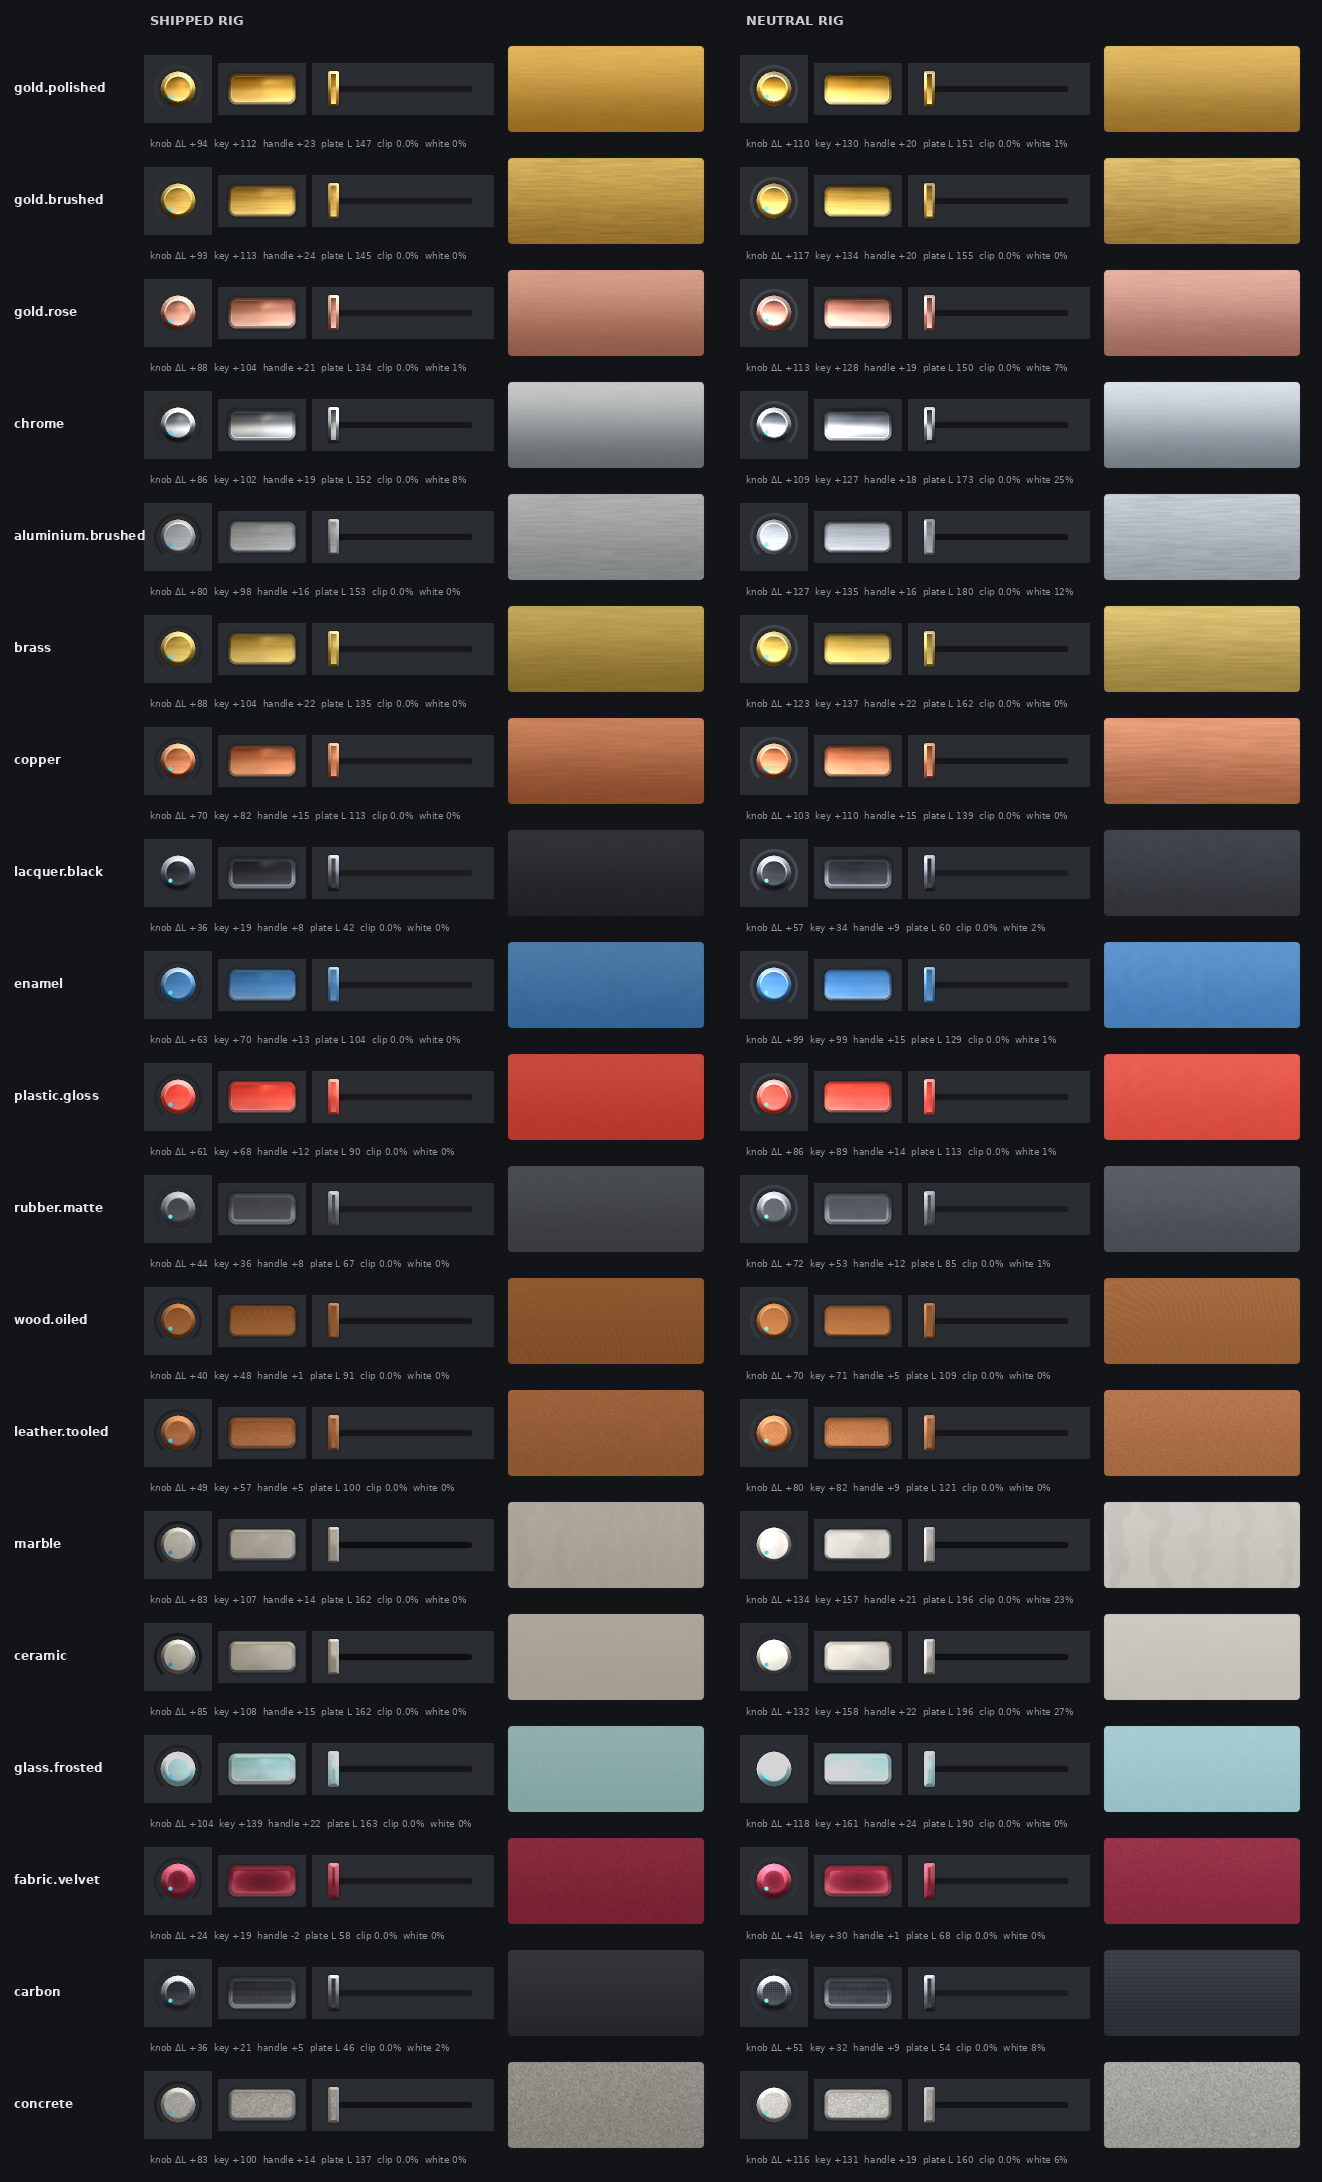
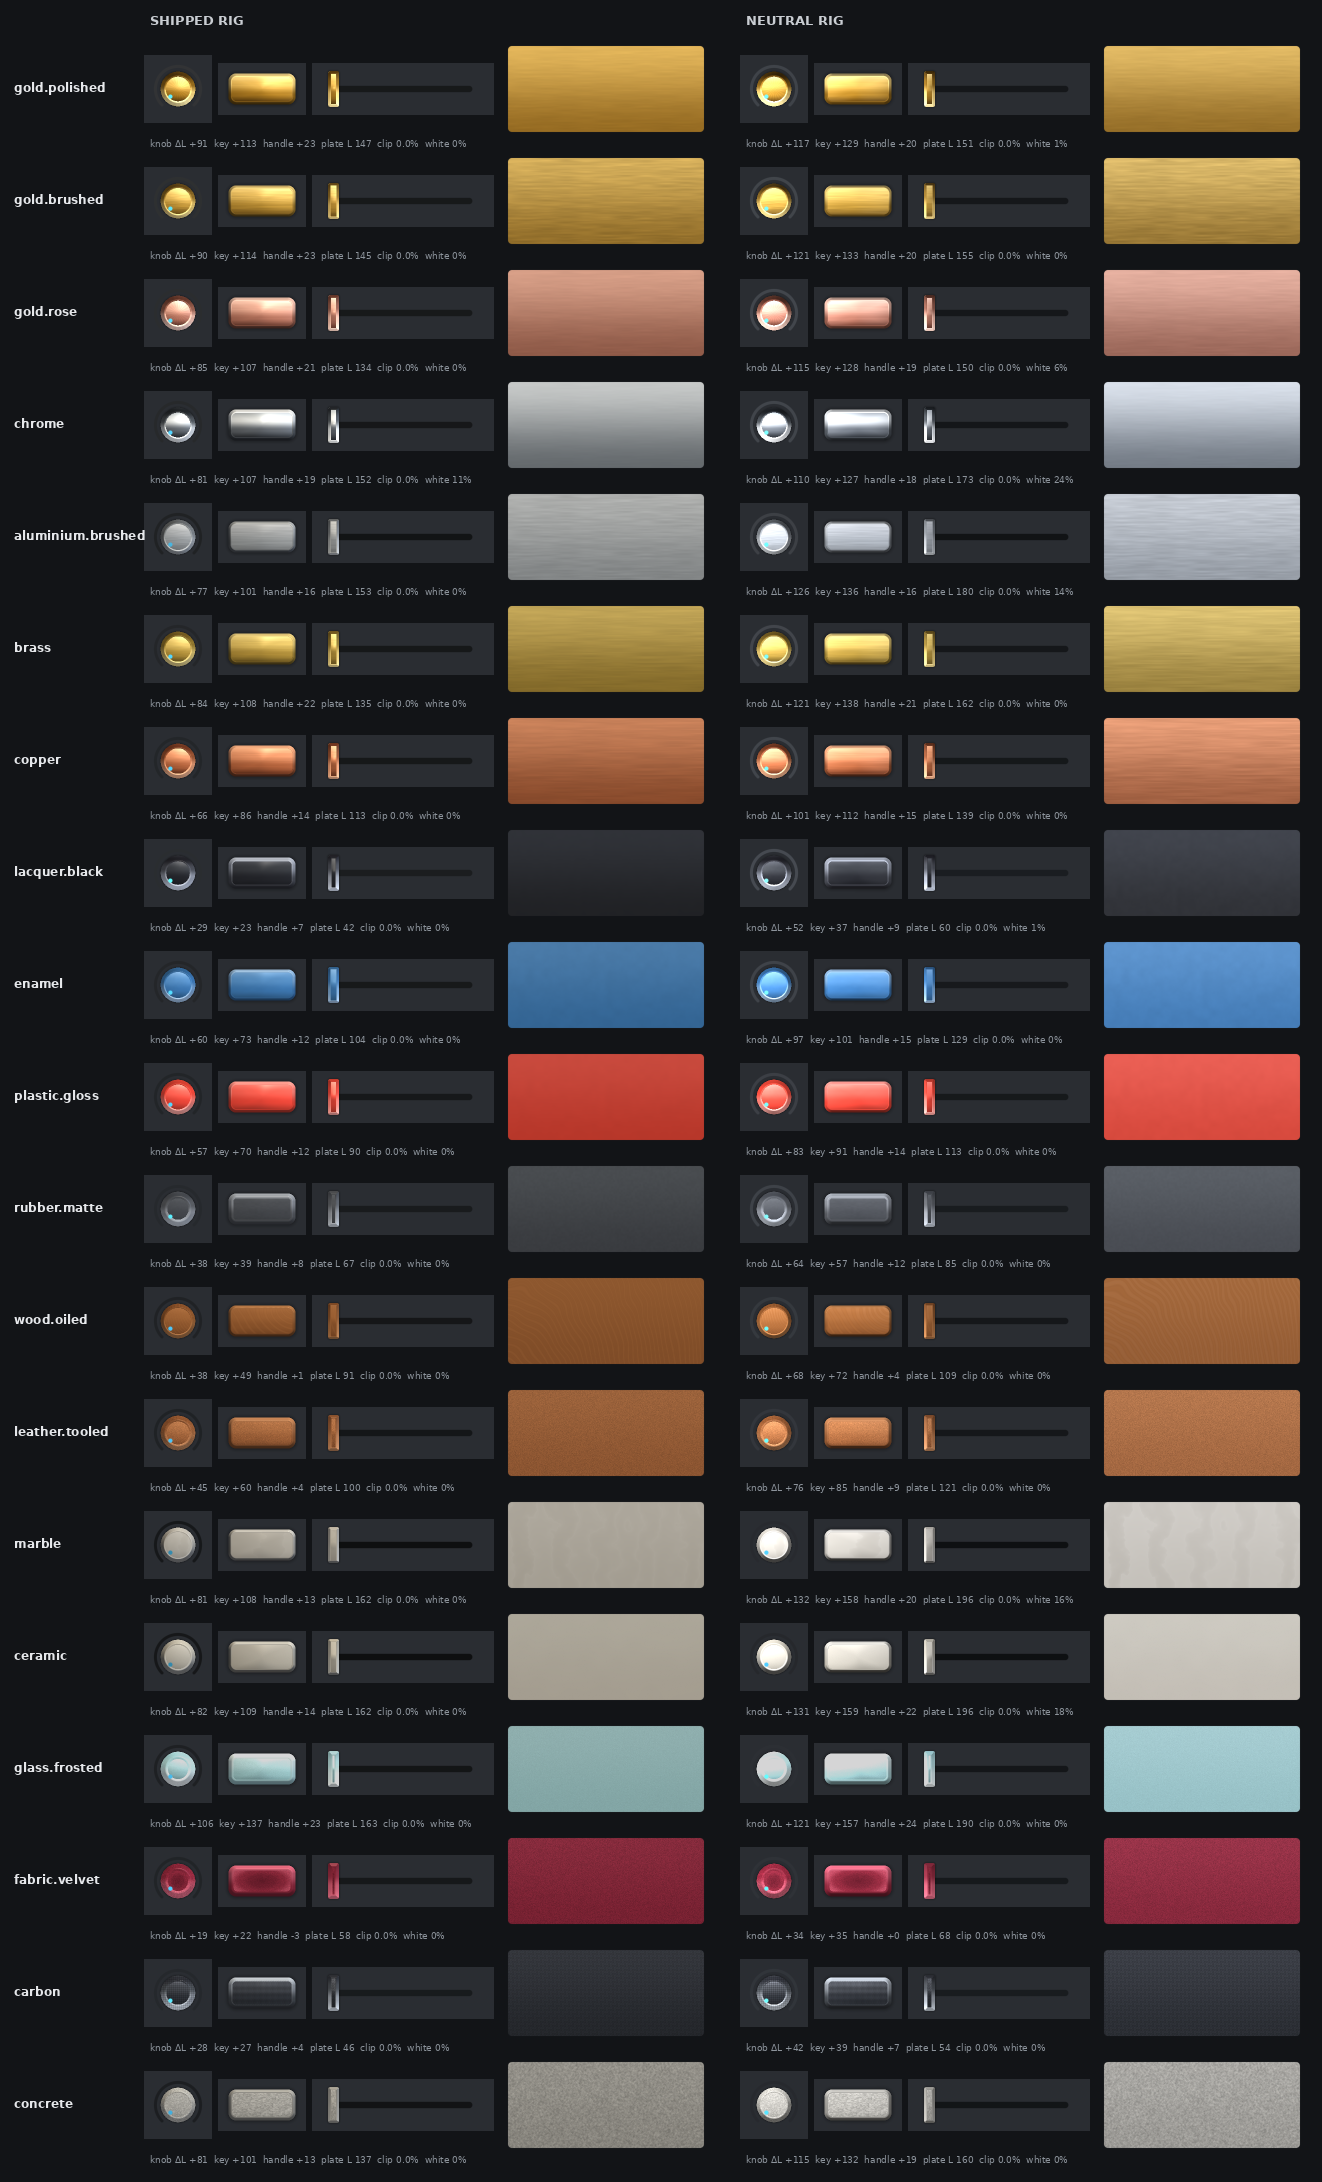
lookkit: RM control ramps run bottom-to-top on screen (RM_UP); re-judge swatches (round 6)
SDFButtonRM/SDFKnobRM/SDFSliderRM put gradient stop A at the TOP of the
control on screen (SDFPanel and non-RM shaders: bottom). Every lit control
ramp and edge band now uses direction (0,-1). Found while building Gold
Leaf: its gold caps read as lit from below. Flat/Tron proofs unaffected.

Claude-Session: https://claude.ai/code/session_0193PCFdq3Ta8YKpErSXdz9Z

diff --git a/Tools/lookkit.py b/Tools/lookkit.py
@@ -867,6 +867,11 @@ MATERIALS = {
                      edge=(0.2, 0.08, -0.05, -0.15), pattern=("Concrete", 2.0, 0.28, 1.0, 0.5, 0.5, 0.0),
                      spec=0.05, rough=0.9, dome=0.08, bevel=(0.14, 0.4, 0.7), amb=0.55, plate_amb=0.45),
 }
+# ⚠ RM CONTROLS RUN THEIR GRADIENT UV UPSIDE DOWN. On screen (slrender's app orientation, measured
+# 2026-10-06 with a red A / blue D ramp), SDFButtonRM, SDFKnobRM and SDFSliderRM put stop A at the TOP
+# of the control; SDFPanel and the non-RM shaders put it at the BOTTOM (the skill's "uv.y is 0 at the
+# BOTTOM"). A "ground below, sky above" ramp on an RM control therefore needs direction (0, -1).
+RM_UP = (0.0, -1.0)
 SURFACE_TOKEN = {"key": "BODY", "accent": "ACCENT", "cap": "CAP", "skirt": "SKIRT", "handle": "HANDLE",
                  "pad": "PAD_BODY"}
 NOMINAL_PX = {"key": 44, "accent": 44, "pad": 62, "handle": 40, "cap": 56, "skirt": 56}
@@ -1046,9 +1051,8 @@ class Lit(Unlit):
         """Colour a layer: the flat colour, and — for a preset surface — its ramp re-based on `c`."""
         d = {f"{layer}Color": c}
         if m and gradient:
-            rt = (0.0, 1.0)
             st = ramp_of(m, c)
-            d.update(grad(layer, st, rt))
+            d.update(grad(layer, st, RM_UP))
             if m.get("ramp_type") == "radial":
                 d.update({f"{layer}GradientType": 1, f"{layer}GradientScale": 1.0, f"{layer}GradientOffset": 0.0})
         return d
@@ -1068,7 +1072,7 @@ class Lit(Unlit):
         if not m:
             return d
         if m.get("edge") is not None:
-            d.update(grad(f"{layer}Bevel", edge_of(m, c), (0.0, 1.0)))
+            d.update(grad(f"{layer}Bevel", edge_of(m, c), RM_UP))
         if m.get("alpha", 1.0) < 1.0:
             d[f"{layer}RenderAlpha"] = m["alpha"]
         if m.get("reflect") and f"{layer}ReflectIntensity" in props(stem(family, True)):
@@ -1221,9 +1225,9 @@ class Lit(Unlit):
         if ms:
             # the skirt is the bevel band: it wears the skirt material's EDGE ramp (+ pattern above) —
             # the lit chamfer that lifts a dark knob off a dark plate
-            base.update(grad("_KnobBevel", edge_of(ms, P["SKIRT"]), (0.0, 1.0)))
+            base.update(grad("_KnobBevel", edge_of(ms, P["SKIRT"]), RM_UP))
         elif mc and mc.get("edge") is not None:
-            base.update(grad("_KnobBevel", edge_of(mc, P["CAP"]), (0.0, 1.0)))
+            base.update(grad("_KnobBevel", edge_of(mc, P["CAP"]), RM_UP))
         if mc and mc.get("alpha", 1.0) < 1.0:
             base["_KnobRenderAlpha"] = mc["alpha"]
         if S["ticks"]:

diff --git a/Looks/_materials/NOTES.md b/Looks/_materials/NOTES.md
@@ -89,16 +89,34 @@ name), optionally with a tint or overrides: `{"preset": "enamel", "tint": "#1F7A
   - Dark presets under the shipped rig: knob ΔL 24–45, key ΔL 19–36.
   - Metals: 0–8% white under the shipped rig.
 
+**Round 6 — the ramps were upside down on every control.** This came from building the Gold
+Leaf pilot.
+- *Measurement:* the pilot's gold caps looked lit from below, so I ran a red-A / blue-D ramp test
+  on screen:
+  - `SDFButtonRM`, `SDFKnobRM` and `SDFSliderRM` put stop **A at the TOP** of the control;
+  - `SDFPanel` and the non-RM shaders put it at the bottom, as the skill says.
+- *So:* rounds 1–5 judged the control swatches with the "sky" at the bottom.
+- *Fix:* lookkit now writes `direction (0, −1)` (`RM_UP`) on every RM control ramp and edge
+  band. Plates are unchanged.
+- *Re-judged:*
+  - Chrome keys show a proper bright-top horizon reflection.
+  - Gold keys read as lit bars of metal.
+  - Lacquer keys separate better: key ΔL +19 → +23 (shipped), +34 → +37 (neutral).
+- *Unchanged:* no preset value needed retuning, and plates are still 0.0% clip.
+- *Final numbers* (`metrics.txt`):
+  - Dark presets under the shipped rig: knob ΔL 19–38, key ΔL 22–39.
+  - Metals: 0–11% white (chrome 11%), shipped rig.
+
 ## Known limits — read before choosing a preset
 
 - **The two rigs disagree by about 1.6× in brightness.** The neutral rig's near key lamp is far
   stronger than the shipped one. Pale presets (ceramic, marble, aluminium) are tuned between the
   two:
   - Under the shipped rig they read as grey stone / satin metal.
-  - Under the neutral rig they read white, with a 12–27% white highlight on domed caps.
+  - Under the neutral rig they read white, with a 14–18% white highlight on domed caps.
   - A look with a bright rig should lower `amb` on its pale surfaces (`{"preset": "ceramic",
     "amb": 0.2}`). Its rack sheet's `clip%` / control step print will say.
-- **Chrome is 8% / 25% white** (shipped / neutral). The white is the fake horizon reflection,
+- **Chrome is 11% / 24% white** (shipped / neutral). The white is the fake horizon reflection,
   which is what chrome is. Lower the top ramp stop if a look finds it loud.
 - **Marble veins are visible on plates only.** At key size, grain 60 px is under one cycle and
   reads as polished stone. That is deliberate: veins on a 40 px key read as dirt.
